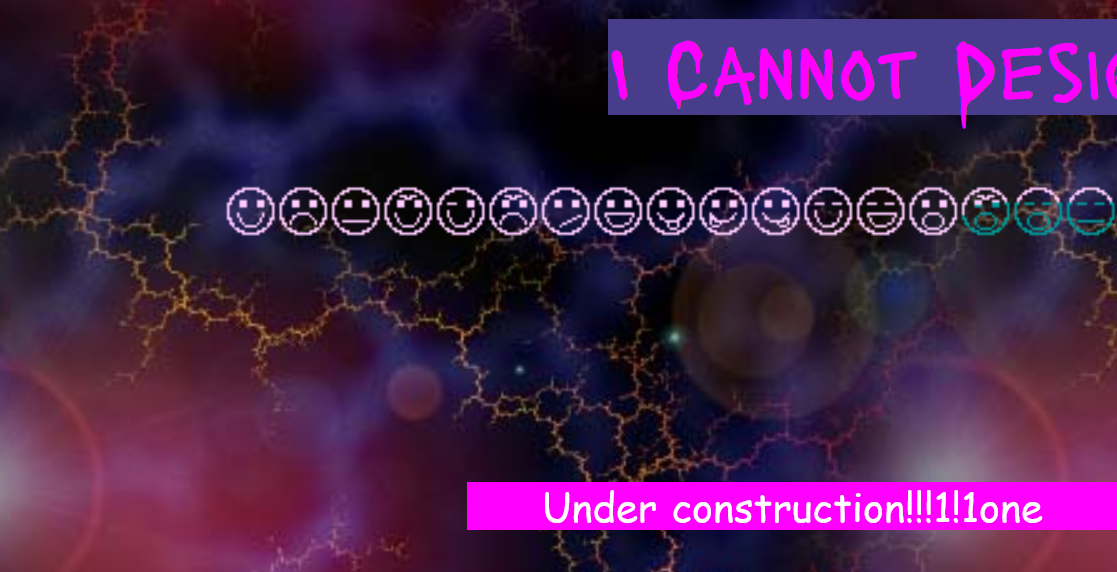
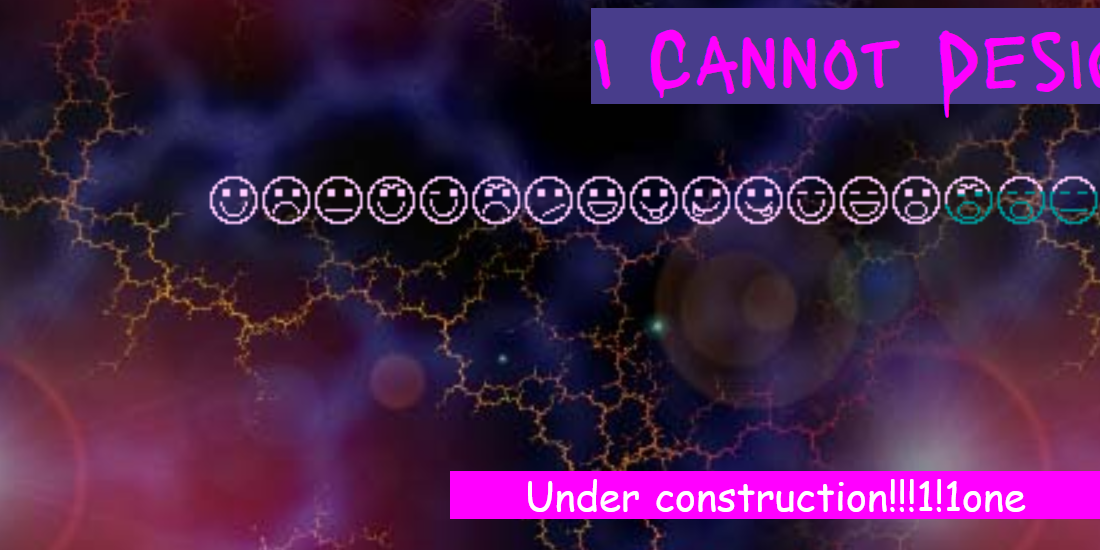
adjust screen shots

diff --git a/pages/svg-router.vue b/pages/svg-router.vue
@@ -13,9 +13,9 @@ export default {
   head:{
     meta:[
       { property: 'og:url', content: 'https://icannot.design/svg-router/' },
-      { property: 'og:image', content: 'https://icannot.design/page-preview/svg-router.png' },
+      { property: 'og:image', content: 'https://icannot.design/page-previews/svg-router.jpg' },
       { property: 'og:image:alt', content: 'a picture that is a supposed capture of the site, but is off center and cutting off information. Extremely unuseful.' },
-      { name:'twitter:image', content: 'https://icannot.design/page-preview/svg-router.png' },
+      { name:'twitter:image', content: 'https://icannot.design/page-previews/svg-router.jpg' },
       { name:'twitter:image:alt', content: 'a picture that is a supposed capture of the site, but is off center and cutting off information. Extremely unuseful.' },
     ],
   },

diff --git a/pages/index.vue b/pages/index.vue
@@ -42,9 +42,9 @@ export default {
   head: {
     meta: [
       { property: 'og:url', content: 'https://icannot.design' },
-      { property: 'og:image', content: 'https://icannot.design/page-preview/index.png' },
+      { property: 'og:image', content: 'https://icannot.design/page-previews/index.jpg' },
       { property: 'og:image:alt', content: 'a picture that is a supposed capture of the site, but is off center and cutting off information. Extremely unuseful.' },
-      { name:'twitter:image', content: 'https://icannot.design/page-preview/index.png' },
+      { name:'twitter:image', content: 'https://icannot.design/page-previews/index.jpg' },
       { name:'twitter:image:alt', content: 'a picture that is a supposed capture of the site, but is off center and cutting off information. Extremely unuseful.' },
     ],
   }
